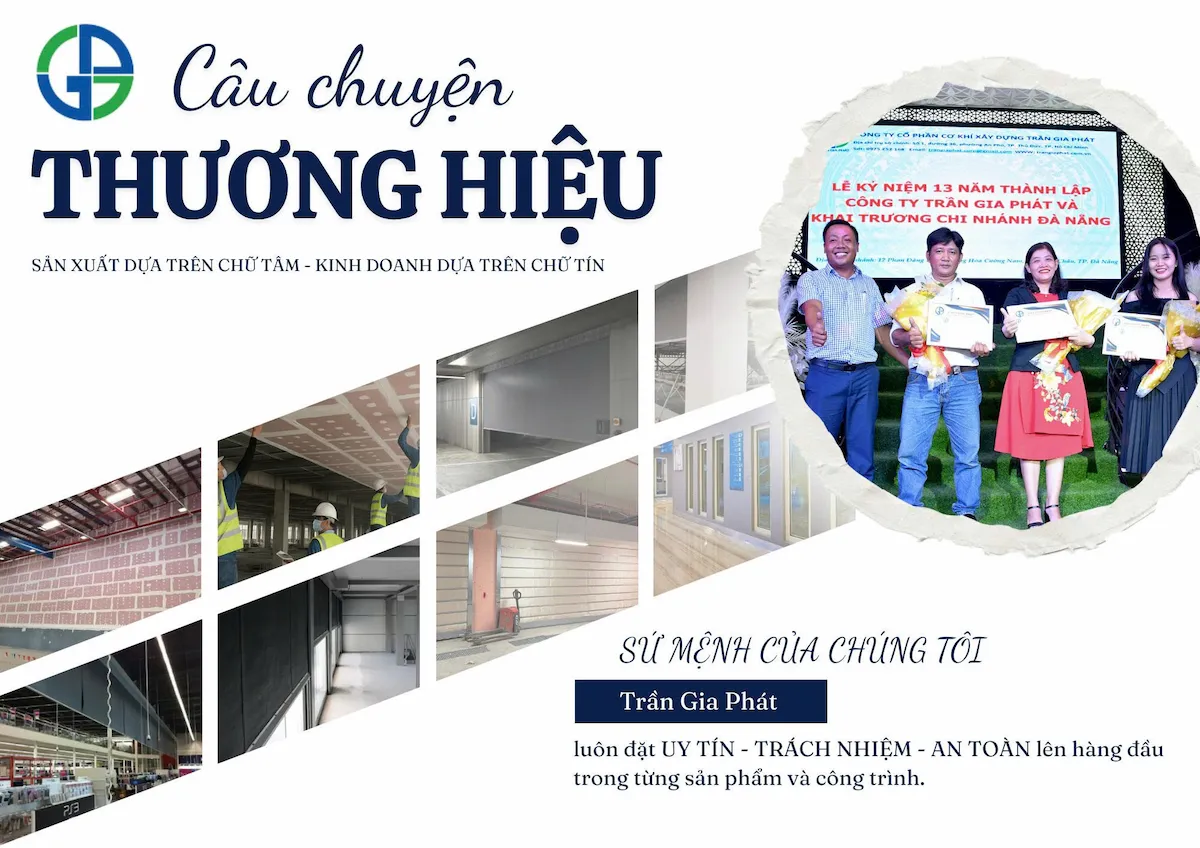
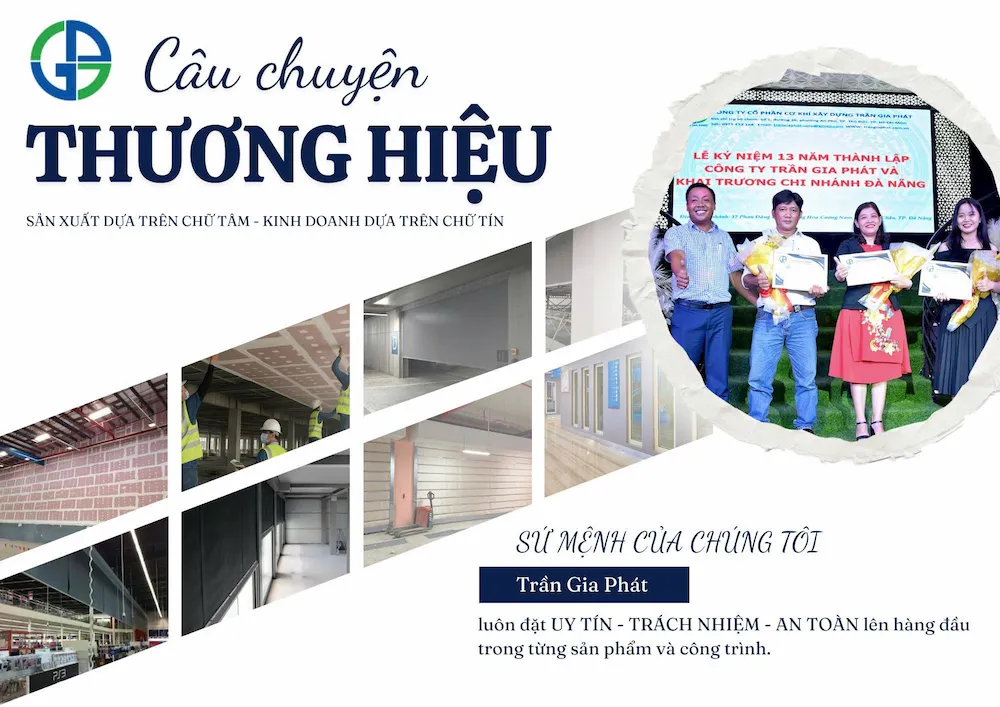
:recycle: Optimize image

diff --git a/app/gioi-thieu/page.tsx b/app/gioi-thieu/page.tsx
@@ -111,7 +111,6 @@ export default function IntroducePage() {
           itemProp='description'
           content='Giới thiệu về công ty, lịch sử phát triển, lĩnh vực hoạt động và cam kết của Trần Gia Phát.'
         />
-
         <h2 className='text-2xl font-bold mb-4' itemProp='headline'>
           LỊCH SỬ PHÁT TRIỂN
         </h2>
@@ -123,7 +122,6 @@ export default function IntroducePage() {
           như: Cơ khí chế tạo, gia công kéo thép, nhà thép tiền chế, gia công
           nhôm kính và đầu tư qua lĩnh vực y tế.
         </p>
-
         <h2 className='text-2xl font-bold mb-4'>ĐỘT PHÁ</h2>
         <p>
           Qua ngần ấy năm tìm tòi và nghiên cứu, TRẦN GIA PHÁT từng bước chuyển
@@ -133,18 +131,17 @@ export default function IntroducePage() {
           khí xây dựng Trần Gia Phát – mở ra một chặng đường mới chuyên nghiệp
           và quy mô hơn.
         </p>
-        <div className='py-8 px-2'>
+        <div className='max-w-[1000px] mx-auto py-8 px-2 text-center'>
           <Image
             src='/gioi-thieu/thuong-hieu-tran-gia-phat.webp'
             alt='Giới thiệu Công ty Cổ phần Cơ khí Xây dựng Trần Gia Phát'
-            width={1200}
-            height={848}
+            width={1000}
+            height={707}
           />
-          <p className='text-center text-sm mt-2 italic'>
+          <p className='text-sm mt-2 italic'>
             Giới thiệu Công ty Cổ phần Cơ khí Xây dựng Trần Gia Phát
           </p>
         </div>
-
         <h2 className='text-2xl font-bold mb-4'>LĨNH VỰC HOẠT ĐỘNG</h2>
         <p className='mb-6'>
           Chúng tôi tự hào là đơn vị tiên phong trong sản xuất và gia công sản

diff --git a/app/page.tsx b/app/page.tsx
@@ -175,14 +175,14 @@ export default function HomePage() {
                 Xem thêm
               </Link>
             </div>
-            <div className='max-w-[1000px] mx-auto py-8 px-2'>
+            <div className='max-w-[1000px] mx-auto py-8 px-2 text-center'>
               <Image
                 src='/gioi-thieu/thuong-hieu-tran-gia-phat.webp'
                 alt='Giới thiệu Công ty Cổ phần Cơ khí Xây dựng Trần Gia Phát'
-                width={1200}
-                height={848}
+                width={1000}
+                height={707}
               />
-              <p className='text-center text-sm mt-2 italic'>
+              <p className='text-sm mt-2 italic'>
                 Giới thiệu Công ty Cổ phần Cơ khí Xây dựng Trần Gia Phát
               </p>
             </div>
